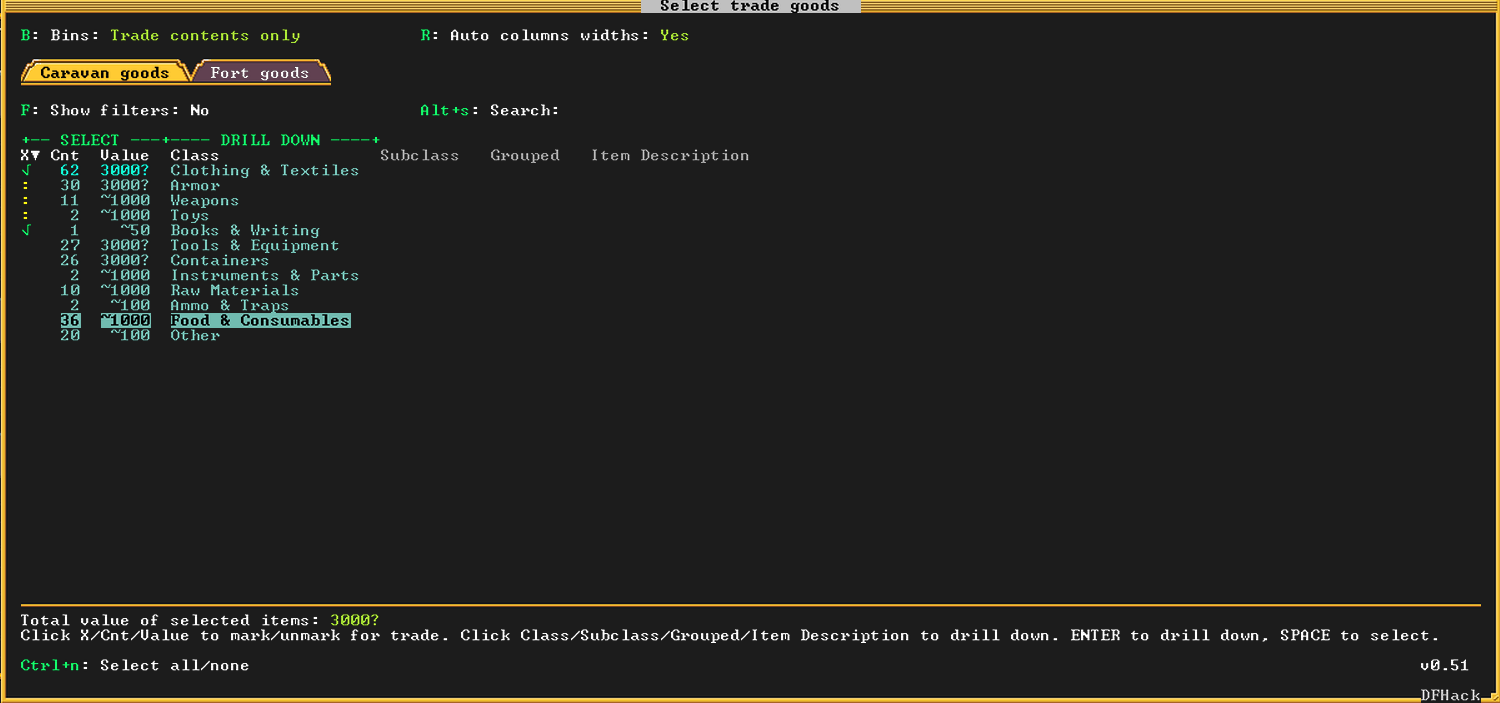
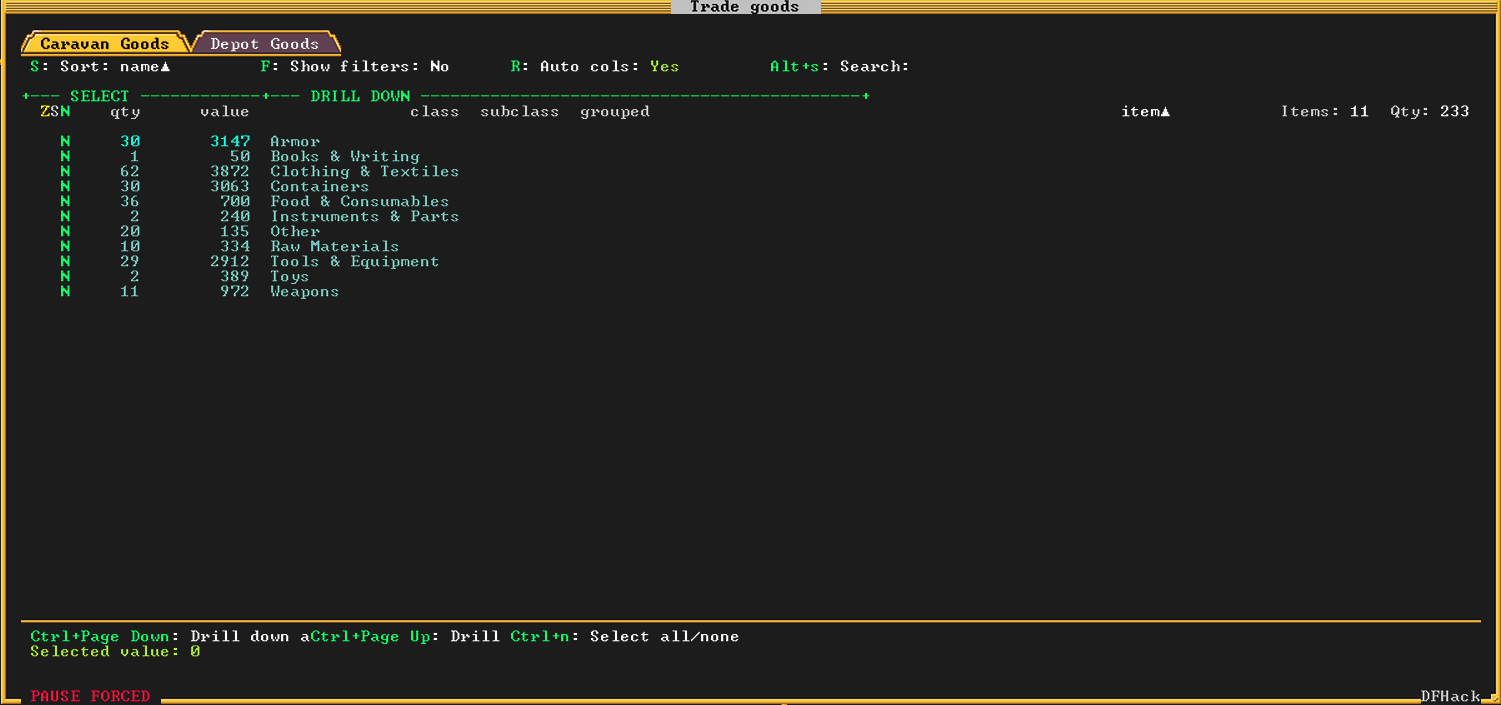
Small updates

diff --git a/TODO.md b/TODO.md
@@ -1,33 +1,6 @@
 # TODO
 
-* Zoom doesn't work on the stock view (and it does work on the old discord implementation)
--- That implementation
-function StockView:act_zoom()
-    local _, choice = self.subviews.list:getSelected()
-    if not choice then return end
-    local item
-    if choice.item_id then
-        item = choice.data.items[choice.item_id].item
-    else
-        item = (next(choice.data.items))
-        item = item and choice.data.items[item].item
-    end
-    if not item then return end
-    local x, y, z = dfhack.items.getPosition(item)
-    if not x then return end
-    self.parent_view:dismiss()
-    -- center=true actually centers the view; highlight=true draws DF's pulsing
-    -- recenter indicator on the tile so it's easy to spot
-    dfhack.gui.revealInDwarfmodeMap(xyz2pos(x, y, z), true, true)
-end
-
-* Also create a function to open the 'item' page for the item. Lets call it Item Sheet
--- AI generated possible code for that feature (would need testing if it's at all possible to do)
-local item = df.item.find(12345) -- Replace with your item ID
-if item then
-    dfhack.gui.showItemDescription(item)
-else
-    qerror("Item not found.")
-end
-
-* Remove pivot_trade_ui traces and only use the new pivot_trade_ui2
+* Add "Elf friendly" flag for the stock screen
+* Valuation differs from Trade view
+ * Merchant appraisal skill? Or Deals in place
+ * Common has a getPerceivedValue function which I am pretty sure I'm not using

diff --git a/README.md b/README.md
@@ -1,2 +1,2 @@
-Pivot trade is a df hack plugin - specifically for the trading screen.
+Pivot trade is a df hack plugin - specifically for the trading and stocks screens.
 
